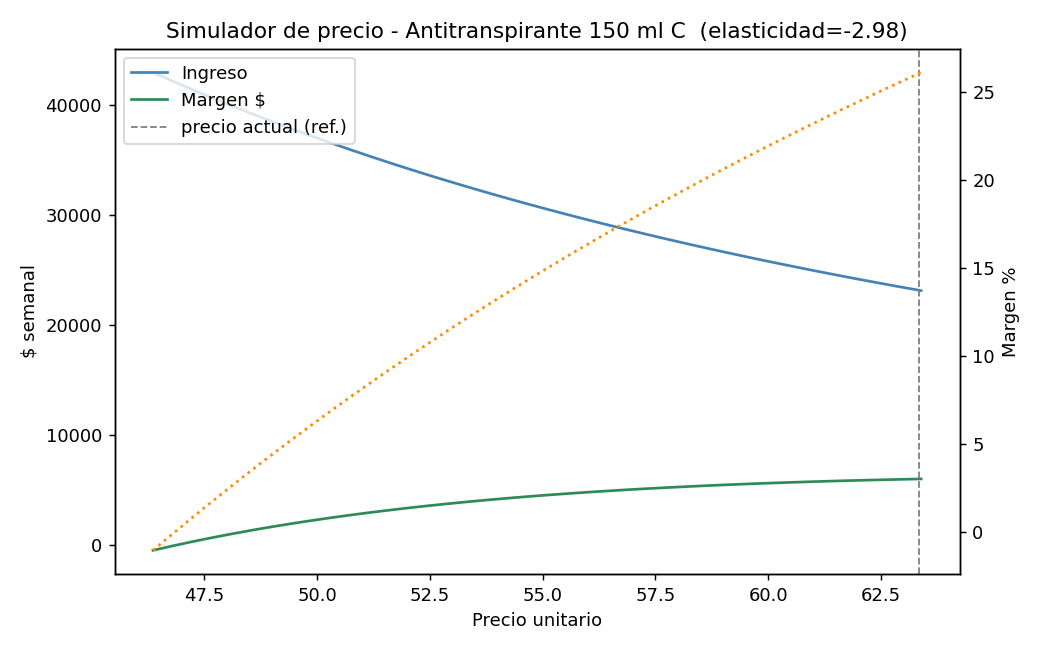
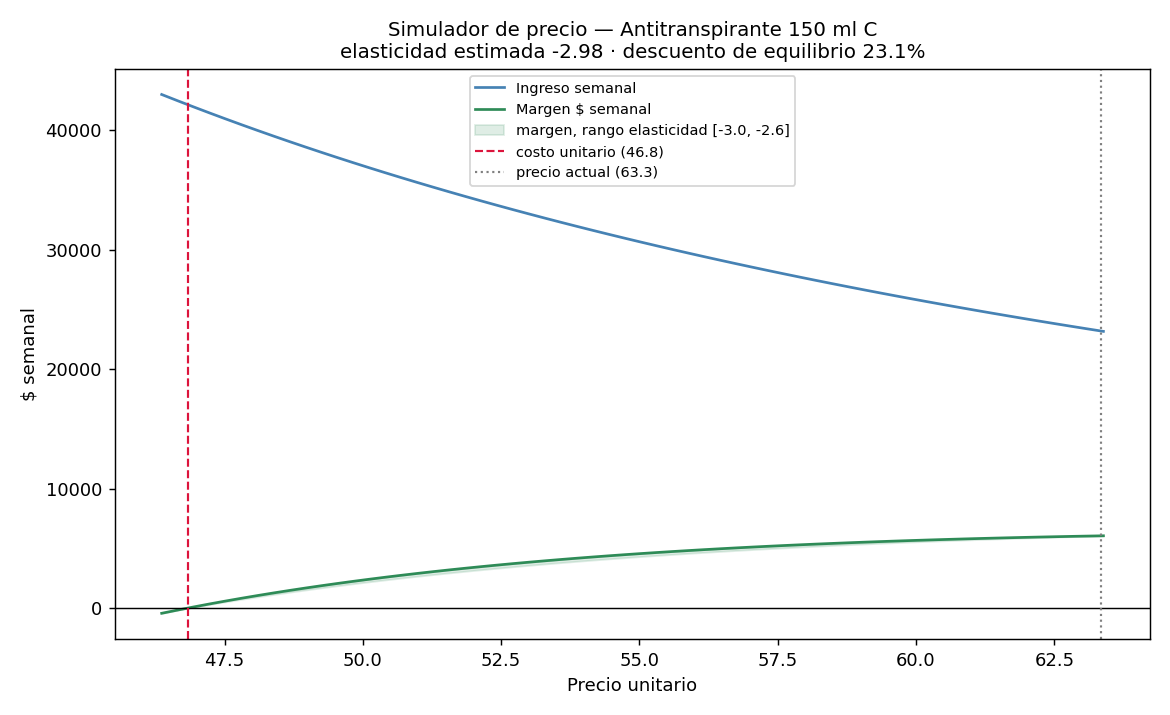
fix(reto-b): documenta el problema de identificacion y reporta rango, no punto
corr(log precio, promo_share) = -0.93: el precio efectivo semanal varia porque
hay o no un combo activo, no por decisiones de pricing puras. El coeficiente
mide el efecto de activar un combo, no una elasticidad de manual.

Ajusta 3 especificaciones: el coeficiente se mueve entre -2.98 y -2.58, asi que
reportar -2.98 como dato preciso era falsa precision. Agrega banda de robustez
al simulador y el descuento de equilibrio como referencia visual.

Changed region(s): [[0.0, 0.0308, 0.9846, 0.9846], [0.5538, 0.3385, 0.8308, 0.4308], [0.6462, 0.2462, 0.7077, 0.2769]]

diff --git a/src/elasticity.py b/src/elasticity.py
@@ -1,4 +1,13 @@
-"""Reto B: Elasticidad de precio y simulador de precio -> demanda/ingreso/margen."""
+"""Reto B: Sensibilidad de la demanda al precio y simulador precio -> demanda / ingreso / margen.
+
+ADVERTENCIA DE IDENTIFICACIÓN (importante para leer estos resultados):
+en este dataset el precio efectivo semanal casi no varía por decisión de pricing "pura": varía
+porque hay o no un combo activo (corr(log precio, promo_share) = -0.93). Por lo tanto el
+coeficiente estimado NO es una elasticidad de precio de libro, sino el efecto combinado de
+"activar un combo a profundidad d": precio + visibilidad + mecánica de bundle.
+Esa es, de hecho, la palanca que el equipo comercial realmente controla — pero hay que
+nombrarla por lo que es y no sobrevender la precisión del número.
+"""
 import numpy as np
 import pandas as pd
 import statsmodels.api as sm
@@ -6,98 +15,125 @@ import matplotlib
 matplotlib.use('Agg')
 import matplotlib.pyplot as plt
 
-from data_prep import load_raw, clean
+from data_prep import load_raw, clean, weekly_demand, sku_economics, data_path, report_path
 
 ELASTICITY_SKU = 'Antitranspirante 150 ml C'
 
 
-def weekly_price_panel(df, product_name):
-    d = df[(df.product_name == product_name) & (~df.is_cancelled) & (~df.is_gift)].copy()
-    g = d.groupby('week').agg(
-        qty=('sell_in_quantity', 'sum'),
-        amount=('sell_in_amount', 'sum'),
-        promo_qty=('sell_in_quantity', lambda s: s[d.loc[s.index, 'is_promo']].sum()),
-    ).reset_index()
-    g['price'] = g['amount'] / g['qty']  # precio efectivo ponderado por volumen
-    g['promo_share'] = g['promo_qty'] / g['qty']
-    g['month'] = g['week'].dt.month
+def price_panel(df, product_name):
+    """Panel semanal de precio efectivo (ponderado por volumen) y cantidad."""
+    d = df[(df.product_name == product_name) & (~df.is_cancelled) & (~df.is_gift)]
+    g = weekly_demand(df, product_name).merge(
+        d.groupby('week').agg(amount_ex_gift=('sell_in_amount', 'sum'),
+                              qty_ex_gift=('sell_in_quantity', 'sum')).reset_index(),
+        on='week', how='left')
+    g['price'] = g.amount_ex_gift / g.qty_ex_gift
     g['t'] = np.arange(len(g))
-    g = g.sort_values('week').reset_index(drop=True)
+    g['month'] = g.week.dt.month
     return g
 
 
-def fit_elasticity(panel):
-    X = pd.DataFrame({
-        'log_price': np.log(panel['price']),
-        't': panel['t'],
-    })
-    month_dum = pd.get_dummies(panel['month'], prefix='m', drop_first=True).astype(float)
-    X = pd.concat([X, month_dum], axis=1)
-    X = sm.add_constant(X)
-    y = np.log(panel['qty'])
-    model = sm.OLS(y.astype(float), X.astype(float)).fit(cov_type='HC1')
-    return model
+def fit_specifications(panel):
+    """Ajusta 3 especificaciones para verificar robustez del coeficiente de precio."""
+    y = np.log(panel.qty).astype(float)
+    M = pd.get_dummies(panel.month, prefix='m', drop_first=True).astype(float)
+    log_price = pd.Series(np.log(panel.price), name='log_price')
+
+    specs = {
+        'base: log_price + tendencia + mes':
+            pd.concat([log_price, panel[['t']], M], axis=1),
+        'control por "hay combo activo"':
+            pd.concat([log_price, panel[['on_promo', 't']], M], axis=1),
+        'solo combo y profundidad (sin precio)':
+            pd.concat([panel[['on_promo', 'discount', 't']], M], axis=1),
+    }
+    out = {}
+    for name, X in specs.items():
+        out[name] = sm.OLS(y, sm.add_constant(X.astype(float))).fit(cov_type='HC1')
+    return out
 
 
 def make_simulator(elasticity, ref_price, ref_qty, unit_cost, price_min, price_max):
+    """Simulador de elasticidad constante anclado al nivel de negocio reciente.
+
+    Devuelve demanda esperada, ingreso, margen ($ y %) y una bandera de si el precio
+    consultado cae fuera del rango históricamente observado (donde no hay evidencia).
+    """
     def simulate(price):
         price = np.atleast_1d(price).astype(float)
-        out_of_range = (price < price_min) | (price > price_max)
         qty = ref_qty * (price / ref_price) ** elasticity
         revenue = price * qty
         margin_abs = (price - unit_cost) * qty
-        margin_pct = np.where(revenue > 0, margin_abs / revenue, np.nan)
-        res = pd.DataFrame({
-            'price': price, 'demanda_esperada': qty, 'ingreso': revenue,
-            'margen_abs': margin_abs, 'margen_pct': margin_pct,
-            'fuera_de_rango_observado': out_of_range
+        return pd.DataFrame({
+            'price': price,
+            'demanda_esperada': qty,
+            'ingreso': revenue,
+            'margen_abs': margin_abs,
+            'margen_pct': np.where(revenue > 0, margin_abs / revenue, np.nan),
+            'fuera_de_rango_observado': (price < price_min) | (price > price_max),
         })
-        return res
     return simulate
 
 
-if __name__ == "__main__":
+def run(save=True):
     df = clean(load_raw())
-    panel = weekly_price_panel(df, ELASTICITY_SKU)
-    print("weeks:", len(panel), "price range:", panel.price.min(), panel.price.max())
-    print(panel[['week','price','qty','promo_share']].head())
+    econ = sku_economics(df, ELASTICITY_SKU)
+    panel = price_panel(df, ELASTICITY_SKU)
+    specs = fit_specifications(panel)
 
-    model = fit_elasticity(panel)
-    print(model.summary())
+    e_base = specs['base: log_price + tendencia + mes'].params['log_price']
+    e_ctrl = specs['control por "hay combo activo"'].params['log_price']
+    e_lo, e_hi = min(e_base, e_ctrl), max(e_base, e_ctrl)
 
-    elasticity = model.params['log_price']
-    print("\nElasticidad precio-demanda estimada:", elasticity)
-
-    unit_cost_recent = df[(df.product_name == ELASTICITY_SKU) & (df.sell_in_quantity > 0)].tail(2000)['unit_cost'].median()
     ref = panel.tail(12)
-    ref_price = ref['price'].mean()
-    ref_qty = ref['qty'].mean()
+    ref_price, ref_qty = ref.price.mean(), ref.qty.mean()
     price_min, price_max = panel.price.min(), panel.price.max()
 
-    print(f"\nref_price={ref_price:.2f} ref_qty={ref_qty:.1f} unit_cost={unit_cost_recent:.2f}")
-    print(f"rango observado: [{price_min:.2f}, {price_max:.2f}]")
-
-    sim = make_simulator(elasticity, ref_price, ref_qty, unit_cost_recent, price_min, price_max)
-    grid = np.linspace(price_min, price_max, 40)
+    sim = make_simulator(e_base, ref_price, ref_qty, econ['unit_cost'], price_min, price_max)
+    grid = np.linspace(price_min, price_max, 60)
     res = sim(grid)
-    res.to_csv("data/reto_b_simulation_grid.csv", index=False)
-    print(res.head())
+    # banda de robustez con el rango de elasticidades de las distintas especificaciones
+    res['margen_abs_lo'] = make_simulator(e_lo, ref_price, ref_qty, econ['unit_cost'], price_min, price_max)(grid)['margen_abs']
+    res['margen_abs_hi'] = make_simulator(e_hi, ref_price, ref_qty, econ['unit_cost'], price_min, price_max)(grid)['margen_abs']
+    res['descuento_implicito'] = 1 - res.price / econ['list_price']
 
-    best_margin = res.loc[res.margen_abs.idxmax()]
-    best_revenue = res.loc[res.ingreso.idxmax()]
-    print("\nPrecio que maximiza margen $:\n", best_margin)
-    print("\nPrecio que maximiza ingreso $:\n", best_revenue)
+    if save:
+        res.to_csv(data_path("reto_b_simulation_grid.csv"), index=False)
 
-    fig, ax1 = plt.subplots(figsize=(8,5))
-    ax1.plot(res.price, res.ingreso, color='steelblue', label='Ingreso')
-    ax1.plot(res.price, res.margen_abs, color='seagreen', label='Margen $')
-    ax1.axvline(ref_price, color='gray', ls='--', lw=1, label='precio actual (ref.)')
-    ax1.set_xlabel('Precio unitario')
-    ax1.set_ylabel('$ semanal')
-    ax1.legend(loc='upper left')
-    ax2 = ax1.twinx()
-    ax2.plot(res.price, res.margen_pct*100, color='darkorange', ls=':', label='Margen %')
-    ax2.set_ylabel('Margen %')
-    plt.title(f"Simulador de precio - {ELASTICITY_SKU}  (elasticidad={elasticity:.2f})")
-    fig.tight_layout()
-    plt.savefig("report/reto_b_simulador.png", dpi=130)
+        fig, ax1 = plt.subplots(figsize=(9, 5.5))
+        ax1.plot(res.price, res.ingreso, color='steelblue', label='Ingreso semanal')
+        ax1.plot(res.price, res.margen_abs, color='seagreen', label='Margen $ semanal')
+        ax1.fill_between(res.price, res.margen_abs_lo, res.margen_abs_hi, color='seagreen',
+                         alpha=0.15, label=f'margen, rango elasticidad [{e_lo:.1f}, {e_hi:.1f}]')
+        ax1.axhline(0, color='black', lw=0.8)
+        ax1.axvline(econ['unit_cost'], color='crimson', ls='--', lw=1.2, label=f"costo unitario ({econ['unit_cost']:.1f})")
+        ax1.axvline(ref_price, color='gray', ls=':', lw=1.2, label=f'precio actual ({ref_price:.1f})')
+        ax1.set_xlabel('Precio unitario')
+        ax1.set_ylabel('$ semanal')
+        ax1.legend(fontsize=8, loc='upper center')
+        ax1.set_title(f"Simulador de precio — {ELASTICITY_SKU}\n"
+                      f"elasticidad estimada {e_base:.2f} · descuento de equilibrio {econ['breakeven_discount']:.1%}",
+                      fontsize=11)
+        plt.tight_layout()
+        plt.savefig(report_path("reto_b_simulador.png"), dpi=130)
+
+    return dict(econ=econ, panel=panel, specs=specs, sim=sim, grid=res,
+                elasticity=e_base, elasticity_range=(e_lo, e_hi),
+                ref_price=ref_price, ref_qty=ref_qty,
+                price_min=price_min, price_max=price_max)
+
+
+if __name__ == "__main__":
+    r = run()
+    pd.set_option('display.width', 200)
+    print("Economía del SKU:", {k: round(v, 3) if isinstance(v, float) else v for k, v in r['econ'].items()})
+    print(f"\nElasticidad estimada: {r['elasticity']:.2f}  (rango entre especificaciones: "
+          f"{r['elasticity_range'][0]:.2f} a {r['elasticity_range'][1]:.2f})")
+    for name, m in r['specs'].items():
+        c = 'log_price' if 'log_price' in m.params else 'discount'
+        print(f"   [{name}] {c} = {m.params[c]:.3f} (p={m.pvalues[c]:.3f}), R2={m.rsquared:.3f}")
+    g = r['grid']
+    print(f"\nPrecio que maximiza margen $ (dentro del rango observado): {g.loc[g.margen_abs.idxmax(),'price']:.2f}")
+    print(f"Precio que maximiza ingreso $: {g.loc[g.ingreso.idxmax(),'price']:.2f}")
+    print(f"Precio bajo el cual se vende a PÉRDIDA: {r['econ']['unit_cost']:.2f} "
+          f"(descuento de {r['econ']['breakeven_discount']:.1%} sobre lista)")
